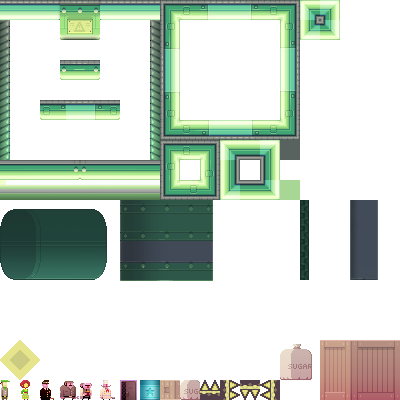
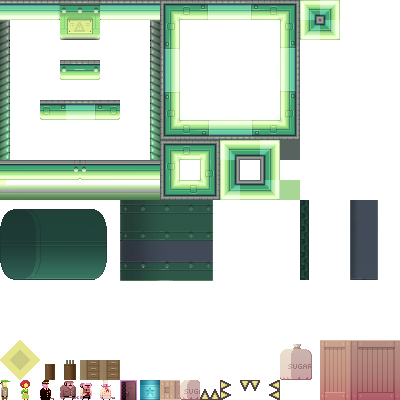
plants work nicely.

Changed region(s): [[0.48, 0.93, 0.72, 1.0], [0.09, 0.9, 0.3, 0.96]]

diff --git a/XNAMode/Lemonade/states/EasyMenuState.cs b/XNAMode/Lemonade/states/EasyMenuState.cs
@@ -23,10 +23,20 @@ namespace Lemonade
         FlxText multiplayerText;
 
         FlxTilemap ny;
-        FlxTilemap miltary;
+        FlxTilemap ny2;
+
+        FlxTilemap military;
+        FlxTilemap military2;
+        FlxTilemap military3;
+
         FlxTilemap sydney;
+        FlxTilemap sydney2;
+        FlxTilemap sydney3;
+
         FlxTilemap management;
+
         FlxTilemap factory;
+
         FlxTilemap warehouse;
 
         FlxSprite badge1;
@@ -72,37 +82,38 @@ namespace Lemonade
 
             // load some tile maps
 
-            List<Dictionary<string, string>> bgString = FlxXMLReader.readNodesFromTmxFile("Lemonade/levels/slf2/newyork/bgnewyork.tmx", "map", "bg", FlxXMLReader.TILES);
-            ny = new FlxTilemap();
-            ny.auto = FlxTilemap.STRING;
-            ny.indexOffset = -1;
-            ny.loadMap(bgString[0]["csvData"], FlxG.Content.Load<Texture2D>("Lemonade/bgtiles_newyork"), 20, 20);
-            ny.boundingBoxOverride = true;
-            ny.setScrollFactors(0, 0);
-            ny.visible = false;
-            add(ny);
+            //List<Dictionary<string, string>> bgString = FlxXMLReader.readNodesFromTmxFile("Lemonade/levels/slf2/newyork/bgnewyork.tmx", "map", "bg", FlxXMLReader.TILES);
+            //ny = new FlxTilemap();
+            //ny.auto = FlxTilemap.STRING;
+            //ny.indexOffset = -1;
+            //ny.loadMap(bgString[0]["csvData"], FlxG.Content.Load<Texture2D>("Lemonade/bgtiles_newyork"), 20, 20);
+            //ny.boundingBoxOverride = true;
+            //ny.setScrollFactors(0, 0);
+            //ny.visible = false;
+            //add(ny);
 
-            bgString = FlxXMLReader.readNodesFromTmxFile("Lemonade/levels/slf2/sydney/bgsydney.tmx", "map", "bg", FlxXMLReader.TILES);
-            sydney = new FlxTilemap();
-            sydney.auto = FlxTilemap.STRING;
-            sydney.indexOffset = -1;
-            sydney.loadMap(bgString[0]["csvData"], FlxG.Content.Load<Texture2D>("Lemonade/bgtiles_sydney"), 20, 20);
-            sydney.boundingBoxOverride = true;
-            sydney.setScrollFactors(0, 0);
-            sydney.visible = false;
-            add(sydney);
+            add(ny = createMap("Lemonade/levels/slf2/newyork/bgnewyork.tmx", "bg", "newyork"));
+            add(ny2 = createMap("Lemonade/levels/slf2/newyork/bgnewyork.tmx", "bg2", "newyork"));
 
-            bgString = FlxXMLReader.readNodesFromTmxFile("Lemonade/levels/slf2/military/bgmilitary.tmx", "map", "bg", FlxXMLReader.TILES);
-            miltary = new FlxTilemap();
-            miltary.auto = FlxTilemap.STRING;
-            miltary.indexOffset = -1;
-            miltary.loadMap(bgString[0]["csvData"], FlxG.Content.Load<Texture2D>("Lemonade/bgtiles_military"), 20, 20);
-            miltary.boundingBoxOverride = true;
-            miltary.setScrollFactors(0, 0);
-            miltary.visible = false;
-            add(miltary);
+            add(sydney = createMap("Lemonade/levels/slf2/sydney/bgsydney.tmx", "bg", "sydney"));
+            add(sydney2 = createMap("Lemonade/levels/slf2/sydney/bgsydney.tmx", "bg2", "sydney"));
+            add(sydney3 = createMap("Lemonade/levels/slf2/sydney/bgsydney.tmx", "bg3", "sydney"));
 
-            bgString = FlxXMLReader.readNodesFromTmxFile("Lemonade/levels/slf2/warehouse/bgwarehouse.tmx", "map", "bg", FlxXMLReader.TILES);
+            add(military = createMap("Lemonade/levels/slf2/military/bgmilitary.tmx", "bg", "military"));
+            add(military2 = createMap("Lemonade/levels/slf2/military/bgmilitary.tmx", "bg2", "military"));
+            add(military3 = createMap("Lemonade/levels/slf2/military/bgmilitary.tmx", "bg3", "military"));
+
+            //List<Dictionary<string, string>> bgString = FlxXMLReader.readNodesFromTmxFile("Lemonade/levels/slf2/military/bgmilitary.tmx", "map", "bg", FlxXMLReader.TILES);
+            //miltary = new FlxTilemap();
+            //miltary.auto = FlxTilemap.STRING;
+            //miltary.indexOffset = -1;
+            //miltary.loadMap(bgString[0]["csvData"], FlxG.Content.Load<Texture2D>("Lemonade/bgtiles_military"), 20, 20);
+            //miltary.boundingBoxOverride = true;
+            //miltary.setScrollFactors(0, 0);
+            //miltary.visible = false;
+            //add(miltary);
+
+            List<Dictionary<string, string>> bgString = FlxXMLReader.readNodesFromTmxFile("Lemonade/levels/slf2/warehouse/bgwarehouse.tmx", "map", "bg", FlxXMLReader.TILES);
             warehouse = new FlxTilemap();
             warehouse.auto = FlxTilemap.STRING;
             warehouse.indexOffset = -1;
@@ -305,6 +316,19 @@ namespace Lemonade
 
         }
 
+        public FlxTilemap createMap(string MapFile, string Layer, string Tiles)
+        {
+            List<Dictionary<string, string>> bgString = FlxXMLReader.readNodesFromTmxFile(MapFile, "map", Layer, FlxXMLReader.TILES);
+            FlxTilemap ny = new FlxTilemap();
+            ny.auto = FlxTilemap.STRING;
+            ny.indexOffset = -1;
+            ny.loadMap(bgString[0]["csvData"], FlxG.Content.Load<Texture2D>("Lemonade/bgtiles_"+ Tiles), 20, 20);
+            ny.boundingBoxOverride = true;
+            ny.setScrollFactors(0, 0);
+            ny.visible = false;
+            return ny;
+        }
+
         public string LoadFromDevice()
         {
             string value1 = File.ReadAllText("nameinfo.txt");
@@ -457,18 +481,25 @@ namespace Lemonade
                 location.text = "<- New York City ->";
                 setAllTilemapsToOff();
                 ny.visible = true;
+                ny2.visible = true;
             }
             if (Lemonade_Globals.location == "sydney")
             {
                 location.text = "<- Sydney, Australia ->";
                 setAllTilemapsToOff();
                 sydney.visible = true;
+                sydney2.visible = true;
+                sydney3.visible = true;
+
+
             }
             if (Lemonade_Globals.location == "military")
             {
                 location.text = "<- Military Complex ->";
                 setAllTilemapsToOff();
-                miltary.visible = true;
+                military.visible = true;
+                military2.visible = true;
+                military3.visible = true;
             }
             if (Lemonade_Globals.location == "warehouse")
             {
@@ -516,8 +547,15 @@ namespace Lemonade
         public void setAllTilemapsToOff()
         {
             ny.visible = false;
-            miltary.visible = false;
+            ny2.visible = false;
+
+            military.visible = false;
+            military2.visible = false;
+            military3.visible = false;
+
             sydney.visible = false;
+            sydney2.visible = false;
+            sydney3.visible = false;
 
             warehouse.visible = false;
             factory.visible = false;

diff --git a/XNAMode/Lemonade/states/PlayState.cs b/XNAMode/Lemonade/states/PlayState.cs
@@ -198,9 +198,21 @@ namespace Lemonade
                 {
                     buildActor("rampRight", xPos, yPos);
                 }
-                if (item == "4000")
+                if (item == "363")
                 {
-                    buildActor("plant", xPos, yPos);
+                    buildActor("plant1", xPos, yPos);
+                }
+                if (item == "364")
+                {
+                    buildActor("plant2", xPos, yPos);
+                }
+                if (item == "365")
+                {
+                    buildActor("filing1", xPos, yPos);
+                }
+                if (item == "366")
+                {
+                    buildActor("filing1", xPos, yPos);
                 }
                 count++;
             }
@@ -303,10 +315,25 @@ namespace Lemonade
                 ramp = new Ramp(xPos, yPos, FlxRamp.LOW_SIDE_RIGHT);
                 ramps.add(ramp);
             }
-            if (actor == "plant")
+            else if (actor == "plant1")
             {
-                FlxSprite plant = new Plant(xPos, yPos, 1);
-                levelItems.add(plant);
+                Plant plant = new Plant(xPos, yPos-90, 1);
+                hazards.add(plant);
+            }
+            else if (actor == "plant2")
+            {
+                Plant plant = new Plant(xPos, yPos - 90, 2);
+                hazards.add(plant);
+            }
+            else if (actor == "filing1")
+            {
+                FilingCabinet filing = new FilingCabinet(xPos, yPos - 70, 1);
+                hazards.add(filing);
+            }
+            else if (actor == "filing2")
+            {
+                FilingCabinet filing = new FilingCabinet(xPos, yPos - 40, 2);
+                hazards.add(filing);
             }
         }
 

diff --git a/XNAMode/Lemonade/extra/FilingCabinet.cs b/XNAMode/Lemonade/extra/FilingCabinet.cs
@@ -8,7 +8,7 @@ using Microsoft.Xna.Framework.Graphics;
 using Microsoft.Xna.Framework.Input;
 
 
-namespace Flixel.Lemonade.extra
+namespace Lemonade
 {
     class FilingCabinet : FlxSprite
     {
